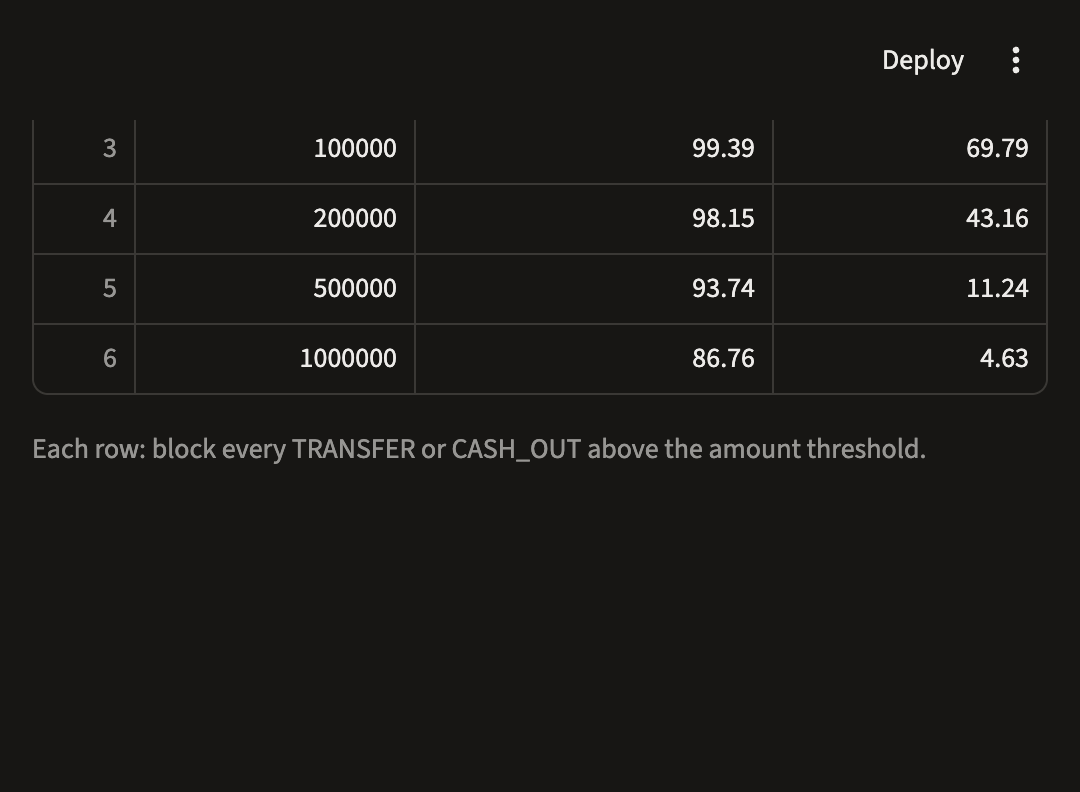
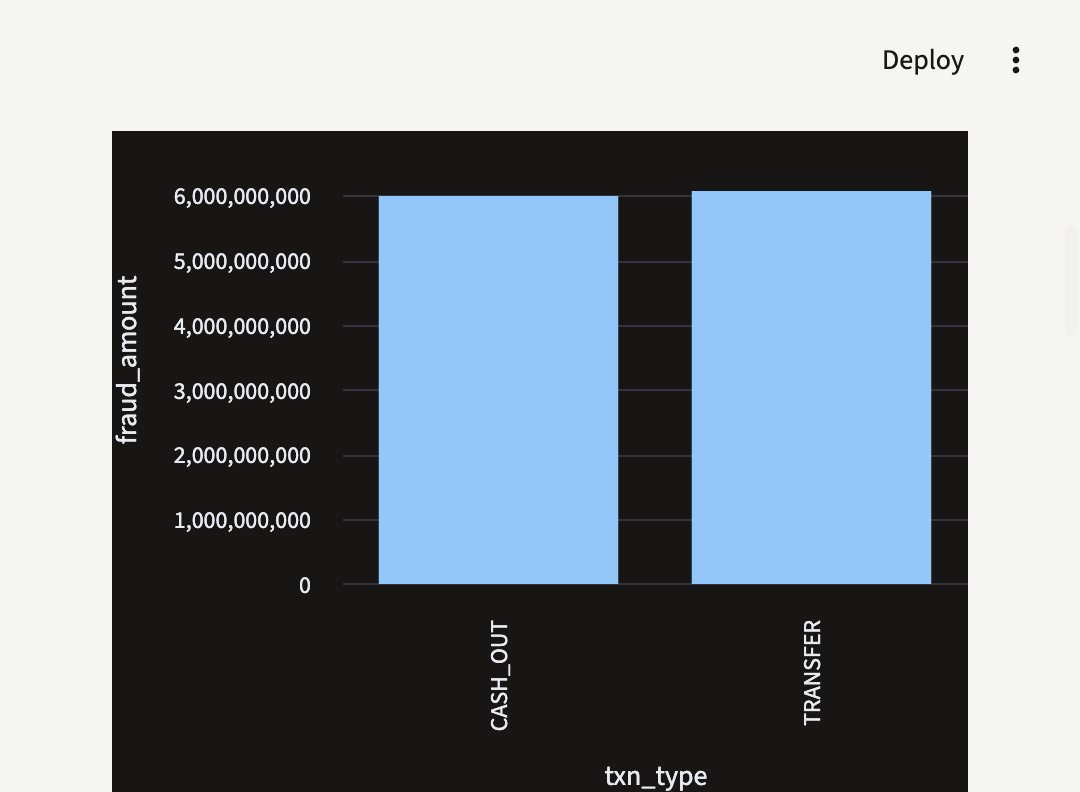
Refine dashboard visual style

diff --git a/app/dashboard.py b/app/dashboard.py
@@ -7,7 +7,167 @@ import streamlit as st
 DATA = Path(__file__).resolve().parent.parent / "dashboard_data"
 
 st.set_page_config(page_title="Fraud Analytics", layout="wide")
-st.title("Fraud Analytics Dashboard")
+
+st.markdown(
+    """
+    <style>
+    @import url('https://fonts.googleapis.com/css2?family=DM+Sans:wght@400;500;600;700&family=Space+Grotesk:wght@500;600;700&display=swap');
+
+    .stApp {
+        background: #f5f5f3;
+        color: #171717;
+    }
+
+    [data-testid="stHeader"] {
+        background: #f5f5f3;
+    }
+
+    .block-container {
+        max-width: 1440px;
+        padding: 3.25rem 3.5rem 4rem;
+    }
+
+    h1, h2, h3, [data-testid="stMetricLabel"] {
+        font-family: "Space Grotesk", sans-serif;
+    }
+
+    h1 {
+        letter-spacing: -0.04em;
+    }
+
+    [data-testid="stMetric"] {
+        background: #ffffff;
+        border: 1px solid #b8b8b5;
+        border-top: 4px solid #171717;
+        border-radius: 0;
+        box-shadow: none;
+        padding: 1.1rem 1.25rem;
+        animation: rise-in 0.65s ease-out both;
+        transition: border-color 180ms ease, background 180ms ease;
+    }
+
+    [data-testid="stMetric"]:hover {
+        background: #eeeeec;
+        border-color: #171717;
+    }
+
+    [data-testid="stMetricValue"] {
+        color: #171717;
+        font-family: "Space Grotesk", sans-serif;
+        font-size: 2rem;
+    }
+
+    [data-testid="stMetricLabel"] {
+        color: #676767;
+        font-size: 0.82rem;
+        letter-spacing: 0.08em;
+        text-transform: uppercase;
+    }
+
+    [data-testid="stMetric"]:nth-child(2) {
+        animation-delay: 90ms;
+    }
+
+    [data-testid="stMetric"]:nth-child(3) {
+        animation-delay: 180ms;
+    }
+
+    [data-testid="stDataFrame"] {
+        border: 1px solid #b8b8b5;
+        border-radius: 0;
+        overflow: hidden;
+    }
+
+    .hero {
+        animation: rise-in 0.55s ease-out both;
+        margin-bottom: 2rem;
+    }
+
+    .eyebrow {
+        color: #676767;
+        font-size: 0.74rem;
+        font-weight: 700;
+        letter-spacing: 0.18em;
+        text-transform: uppercase;
+    }
+
+    .hero h1 {
+        color: #171717;
+        font-size: clamp(2.2rem, 5vw, 4.25rem);
+        margin: 0.35rem 0 0.5rem;
+    }
+
+    .hero p {
+        color: #676767;
+        font-size: 1.05rem;
+        margin: 0;
+        max-width: 42rem;
+    }
+
+    .status-pill {
+        align-items: center;
+        background: #ffffff;
+        border: 1px solid #b8b8b5;
+        border-radius: 0;
+        color: #4a4a4a;
+        display: inline-flex;
+        font-size: 0.78rem;
+        font-weight: 600;
+        gap: 0.45rem;
+        margin-top: 1.1rem;
+        padding: 0.45rem 0.75rem;
+    }
+
+    .status-dot {
+        animation: pulse 1.8s ease-in-out infinite;
+        background: #171717;
+        border-radius: 50%;
+        height: 0.48rem;
+        width: 0.48rem;
+    }
+
+    .section-label {
+        color: #767676;
+        font-size: 0.72rem;
+        font-weight: 700;
+        letter-spacing: 0.16em;
+        margin: 2.2rem 0 0.35rem;
+        text-transform: uppercase;
+    }
+
+    .section-title {
+        color: #171717;
+        font-family: "Space Grotesk", sans-serif;
+        font-size: 1.35rem;
+        font-weight: 600;
+        margin-bottom: 0.8rem;
+    }
+
+    @keyframes rise-in {
+        from { opacity: 0; transform: translateY(12px); }
+        to { opacity: 1; transform: translateY(0); }
+    }
+
+    @keyframes pulse {
+        0%, 100% { opacity: 1; }
+        50% { opacity: 0.35; }
+    }
+    </style>
+    """,
+    unsafe_allow_html=True,
+)
+
+st.markdown(
+    """
+    <div class="hero">
+        <div class="eyebrow">Risk intelligence · PaySim</div>
+        <h1>Fraud Analytics</h1>
+        <p>A focused view of fraud exposure, timing patterns, and the cost of intervention.</p>
+        <div class="status-pill"><span class="status-dot"></span>Warehouse synced · 6.36M transactions analyzed</div>
+    </div>
+    """,
+    unsafe_allow_html=True,
+)
 
 daily = pd.read_parquet(DATA / "fct_daily_fraud.parquet")
 hourly = pd.read_parquet(DATA / "fct_hourly_fraud.parquet")
@@ -21,21 +181,31 @@ c1.metric("Total transactions", f"{int(daily['txn_count'].sum()):,}")
 c2.metric("Fraud transactions", f"{int(daily['fraud_count'].sum()):,}")
 c3.metric("Fraud value", f"{daily['fraud_amount'].sum():,.0f}")
 
-st.subheader("Fraud value by transaction type")
+st.markdown('<div class="section-label">Exposure profile</div><div class="section-title">Where fraud value concentrates</div>', unsafe_allow_html=True)
 by_type = fraud_only.groupby("txn_type", as_index=False)["fraud_amount"].sum()
 st.bar_chart(by_type, x="txn_type", y="fraud_amount")
 
-st.subheader("Fraud rate by hour of day (TRANSFER and CASH_OUT)")
+st.markdown('<div class="section-label">Temporal signal</div><div class="section-title">When risk peaks</div>', unsafe_allow_html=True)
 st.bar_chart(hourly, x="hour_of_day", y="fraud_rate_pct")
 
-st.subheader("Daily fraud count")
+st.markdown('<div class="section-label">Trend watch</div><div class="section-title">Daily fraud count</div>', unsafe_allow_html=True)
 daily_total = daily.groupby("day_index", as_index=False)["fraud_count"].sum()
 st.line_chart(daily_total, x="day_index", y="fraud_count")
 
-st.subheader("Blocking by amount threshold")
+st.markdown('<div class="section-label">Decision support</div><div class="section-title">Blocking by amount threshold</div>', unsafe_allow_html=True)
 st.dataframe(
     tradeoff[["amount_threshold", "fraud_value_blocked_pct", "legit_blocked_pct"]],
     width="stretch",
+    hide_index=True,
+    column_config={
+        "amount_threshold": st.column_config.NumberColumn("Threshold", format="$%,.0f"),
+        "fraud_value_blocked_pct": st.column_config.NumberColumn(
+            "Fraud value blocked", format="%.2f%%"
+        ),
+        "legit_blocked_pct": st.column_config.NumberColumn(
+            "Legitimate blocked", format="%.2f%%"
+        ),
+    },
 )
 
-st.caption("Each row: block every TRANSFER or CASH_OUT above the amount threshold.")
+st.caption("Each row blocks every TRANSFER or CASH_OUT above the selected threshold.")
